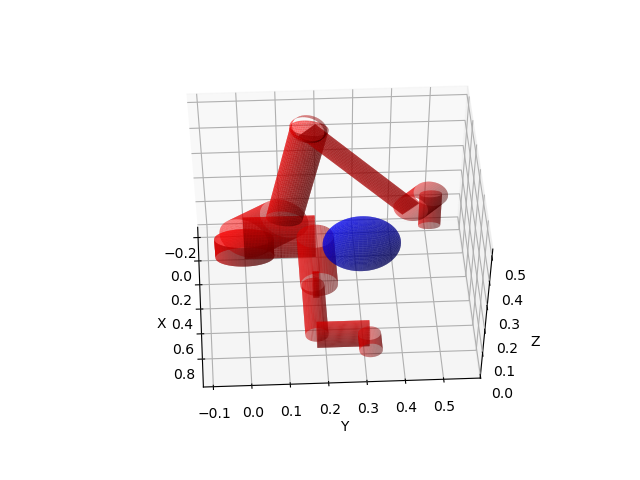
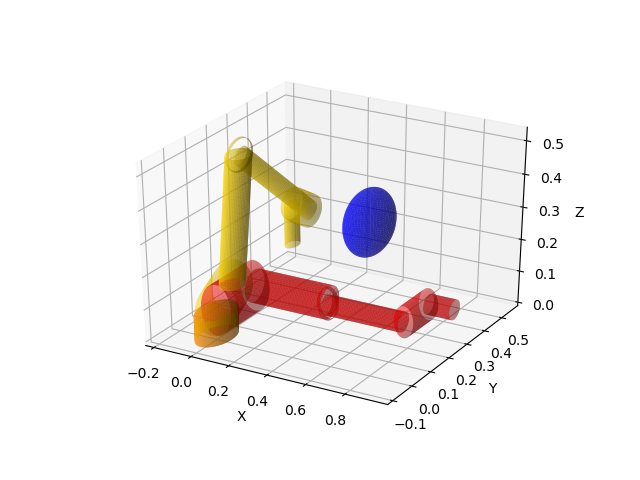
Added animation and updated the the world map

Changed region(s): [[0.2188, 0.1875, 0.875, 0.9062], [0.2188, 0.3438, 0.25, 0.375]]

diff --git a/src/rrt.py b/src/rrt.py
@@ -9,6 +9,8 @@ import matplotlib.pyplot as plt
 from sawyer import Sawyer
 from obstacles import obstacles, goal_cartesian_point
 from inverse_kinematics import ik_service_client
+import matplotlib.animation as animation
+
 sawyer = Sawyer()
 class Node:
     """
@@ -190,7 +192,37 @@ def move_sawyer_along_path(node_path: List[Node]) -> None:
         sawyer.move_to_joint_positions()
         rospy.sleep(.75)
 
-def example_run():
+def animate_sawyer(node_path: List[Node]) -> None:
+    """
+    Animate the sawyer robot
+    """
+    fig = plt.figure()
+    ax = fig.add_subplot(111, projection='3d')
+    ax.set_xlabel('X')
+    ax.set_ylabel('Y')
+    ax.set_zlabel('Z')
+    def update(frame):
+        ax.cla()
+        # Plot current configuration
+        configuration = node_path[frame].config
+        sawyer.change_config(configuration)
+        sawyer.plot(ax)
+        # Plot starting configuration
+        starting_configuration = node_path[0].config
+        sawyer.change_config(starting_configuration)
+        sawyer.plot(ax, color='purple')
+        # Plot obstacles
+        for sphere in obstacles:
+            sphere.plot(ax)
+        # Plot goal point
+        x_goal, y_goal, z_goal = goal_cartesian_point
+        ax.scatter(x_goal, y_goal, z_goal, marker="*", color='gold')
+
+    ani = animation.FuncAnimation(fig=fig, func=update, frames=len(node_path))
+    plt.show()
+
+
+def run():
     x_end, y_end, z_end  = goal_cartesian_point 
     goal_config = ik_service_client(x_end, y_end, z_end)
     #x_end, y_end, z_end  = (0.9, 0.16, 0.4)
@@ -208,9 +240,10 @@ def example_run():
     ax.set_xlabel('X')
     ax.set_ylabel('Y')
     ax.set_zlabel('Z')
+    # Plot goal state
     sawyer.plot(ax)
     sawyer.change_config(goal_config)
-    sawyer.plot(ax)
+    sawyer.plot(ax, color='gold')
     for sphere in obstacles:
         sphere.plot(ax)
     plt.show()
@@ -223,10 +256,12 @@ def example_run():
     print('goal endpoint', sawyer.get_endpoint(config=goal_config))
     print('starting_cost', cost_between_nodes(Node(goal_config), Node(start_config)))
     print("Starting planner....")
-    move_sawyer_along_path(rrt.plan())
+    nodes_path = rrt.plan()
+    move_sawyer_along_path(nodes_path)
+    animate_sawyer(nodes_path)
 
 
 
 
 if __name__ == "__main__":
-    example_run()
+    run()
